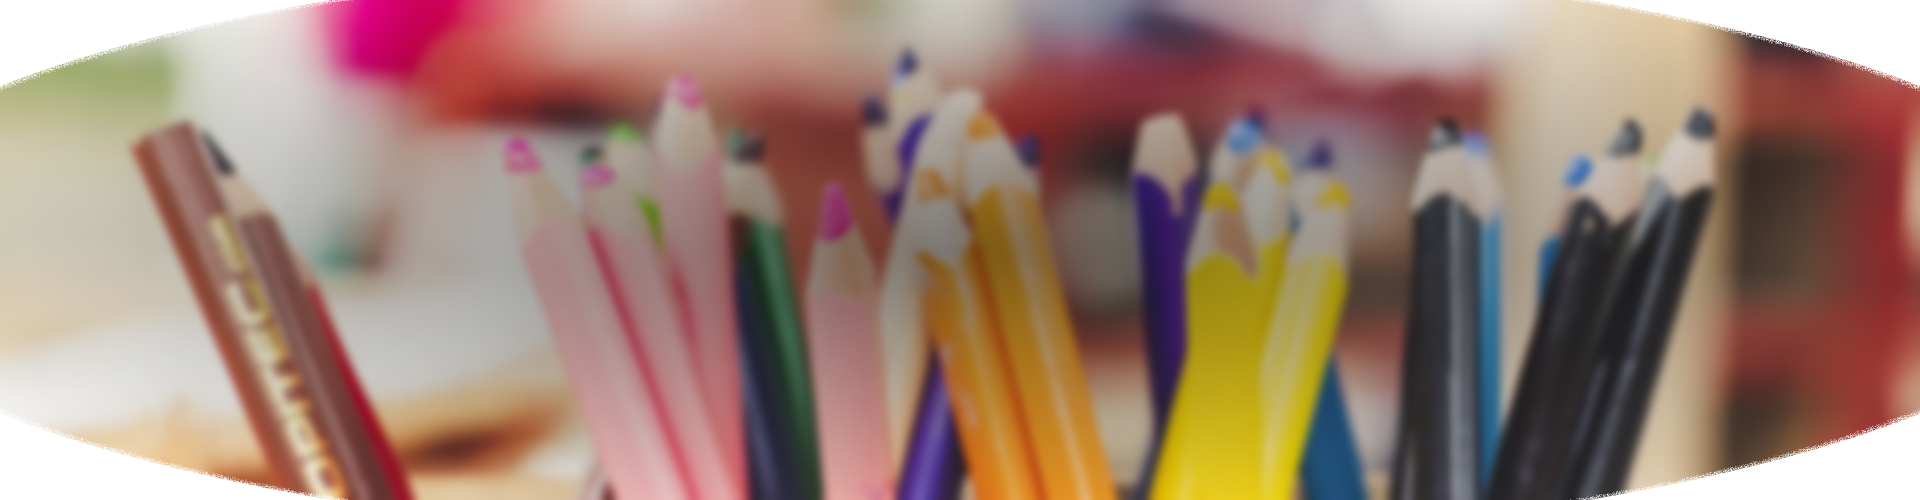
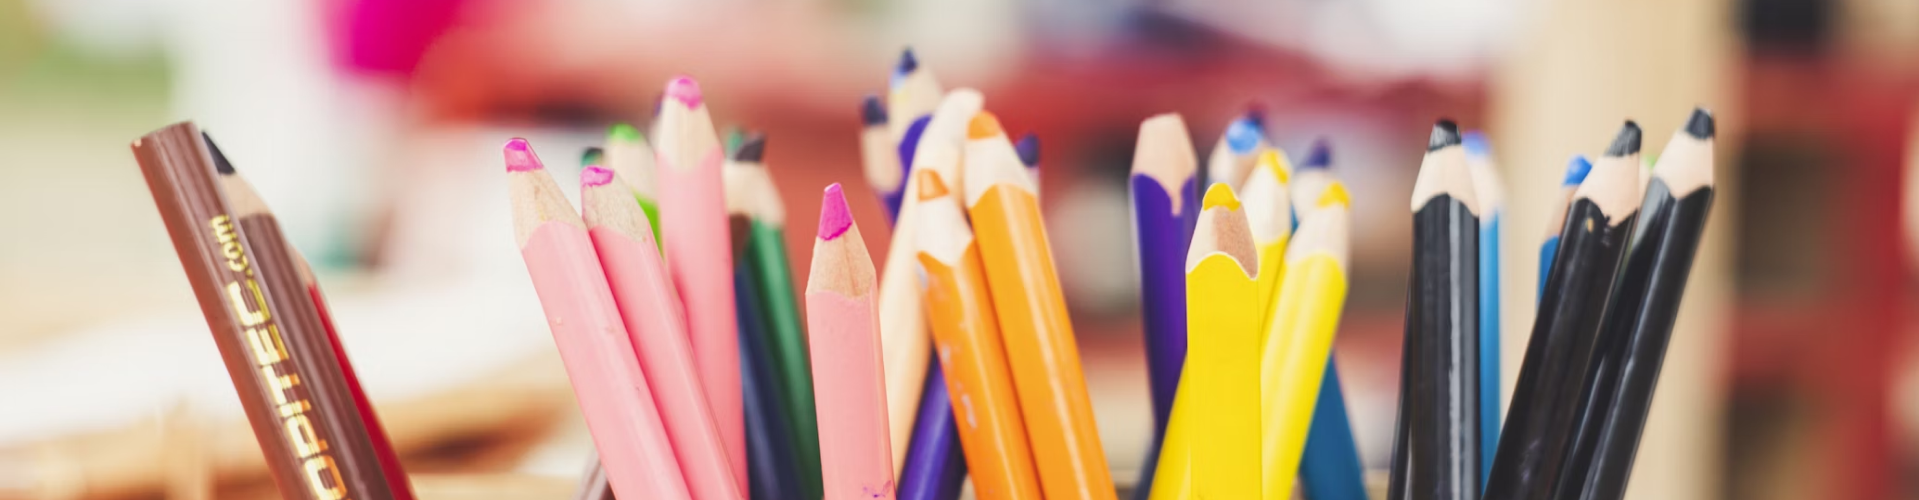
[fix]배경이미지 변경 및 디자인 수정, 애니메이션과 아이콘 디자인 수정

diff --git a/src/pages/Home/SchedulSection.tsx b/src/pages/Home/SchedulSection.tsx
@@ -6,6 +6,7 @@ import Button from '@components/Button';
 import Edu from '@assets/icon/edu.svg?react';
 import Dot from '@assets/img/dot.svg?react';
 import Date from '@assets/icon/date.svg?react';
+import Logo from '@assets/img/schedul-logo.svg?react';
 import { MOCKAG_SCHEDUL_DATA } from '@data/Schedul';
 
 interface ScheduleDateProps {
@@ -38,8 +39,8 @@ const ScheduleDate = ({
 }: ScheduleDateProps) => {
   return (
     <div
-      className="xl:w-[59.625rem] lg:w-[38.875rem] sm:w-[20.875rem] xl:h-[24rem] lg:h-[20.625rem] sm:h-[15rem] xl:pt-[2.7rem] lg:pt-[2.5rem] sm:pt-[1.5rem]
-      border rounded-[3rem] shadow-lg text-center bg-white"
+      className="xl:w-[59.625rem] lg:w-[38.875rem] sm:w-[20.875rem] xl:h-[24rem] lg:h-[20.625rem] sm:h-[15rem] xl:pt-[2.7rem] lg:pt-[2.5rem] sm:pt-[1.09rem]
+      border xl:rounded-[2rem] lg:rounded-[2rem] sm:rounded-[1.5rem] shadow-xl text-center bg-white"
     >
       <h2 className="xl:text-[2rem] lg:text-[1.625rem] sm:text-[1.125rem] font-bold xl:mb-[0.8rem] lg:mb-[1.5rem] sm:mb-[1rem]">
         {title}
@@ -56,12 +57,11 @@ const ScheduleDate = ({
       <Dot className="xl:ml-[30rem] lg:ml-[20rem] sm:ml-[10rem] xl:mb-[1rem] sm:mb-[1rem] sm:mt-[1rem]" />
       <div className="xl:text-[1.25rem] lg:text-[0.875rem] sm:text-[0.625rem]">
         <p className="xl:mb-[0.8rem] lg:mb-[0.7rem] sm:mb-[0.6rem]">
-          <Date className="absolute xl:w-[1.25rem] h-[1.27rem] lg:w-[1.00375rem] h-[1.02rem] sm:w-[0.908125rem] h-[0.895rem] xl:ml-[14.3rem] lg:ml-[8rem] sm:ml-[2rem] " />
+          <Date className="absolute xl:w-[1.25rem] lg:w-[1.00375rem] sm:w-[0.908125rem] xl:h-[1.27rem] lg:h-[1.02rem] sm:h-[0.895rem] xl:ml-[14.1rem] lg:ml-[8.25rem] sm:ml-[2rem] xl:mt-[0.1rem] lg:mt-[0.2rem] sm:mt-[0.1rem] " />
           신청일자: {formatDate(applyStartDate)} ~ {formatDate(applyEndDate)}
         </p>
         <p>
-          <Edu className="absolute xl:w-[1.5rem] h-[1.2775rem] lg:w-[1.1195rem] h-[1.02rem] sm:w-[0.989375rem] h-[0.875rem] xl:ml-[14.3rem] lg:ml-[8rem] sm:ml-[2rem]" />
-          {/*  xl:w-[1.4rem] h-[1.2775rem] lg:w-[1.1195rem] h-[1.02rem] sm:w-[0.989375rem] h-[0.875rem] */}
+          <Edu className="absolute xl:w-[1.5rem] lg:w-[1.1195rem] sm:w-[0.989375rem] xl:h-[1.2775rem] lg:h-[1.02rem] sm:h-[0.875rem] xl:ml-[14.1rem] lg:ml-[8.25rem] sm:ml-[2rem] xl:mt-[0.3rem] lg:mt-[0.2rem] sm:mt-[0.1rem]" />
           교육일자: {formatDate(eduStartDate)} ~{' '}
           {eduEndDate ? formatDate(eduEndDate) : formatDate(eduStartDate)}
         </p>
@@ -74,8 +74,8 @@ const ANIMATION_DURATION = 700;
 
 const ANIMATION_DIRECTION = {
   DEFAULT: '',
-  NEXT: `-translate-x-[calc(50%+64.625rem)] transition-transform duration-${ANIMATION_DURATION} ease-in-out`,
-  PREV: `-translate-x-[calc(50%-64.625rem)] transition-transform duration-${ANIMATION_DURATION} ease-in-out`,
+  NEXT: `xl:-translate-x-[calc(50%+62.9rem)] lg:-translate-x-[calc(50%+39.7rem)] sm:-translate-x-[calc(50%+21.402rem)] transition-transform duration-${ANIMATION_DURATION} ease-in-out`,
+  PREV: `xl:-translate-x-[calc(50%-62.9rem)] lg:-translate-x-[calc(50%+39.7rem)] sm:-translate-x-[calc(50%+21.402rem)] transition-transform duration-${ANIMATION_DURATION} ease-in-out`,
 };
 const SchedulSection = () => {
   const [startIdx, setStartIdx] = useState(0);
@@ -85,6 +85,7 @@ const SchedulSection = () => {
     ...MOCKAG_SCHEDUL_DATA.slice(3),
     ...MOCKAG_SCHEDUL_DATA.slice(0, 3),
   ]);
+
   const updateDataAfterAnimation = (newIdx: number, direction: string) => {
     setTrigger(direction);
     setTimeout(() => {
@@ -122,20 +123,27 @@ const SchedulSection = () => {
    "
     >
       <div className="relative">
-        <img src={schedule} alt="scheduleBG" className="w-[100%]" />
-        <p className="absolute w-[60rem] h-[10rem] top-1/2 left-1/2 -translate-x-1/2 -translate-y-[21rem] text-center xl:text-[2.875rem] lg:text-[2.125rem] sm:text-[1.125rem] text-white font-bold">
+        <img
+          src={schedule}
+          alt="scheduleBG"
+          className="w-[100%] blur-[0.15rem] brightness-75"
+        />
+        <Logo className="absolute xl:w-[7.69rem] lg:w-[4.92rem] sm:w-[2.40rem] xl:h-[5.56rem] lg:h-[3.56rem] sm:h-[1.74rem] right-1/2 translate-x-1/2 xl:-translate-y-[25rem] lg:-translate-y-[24rem] sm:-translate-y-[22rem] top-1/2" />
+        <p className="absolute w-[60rem] h-[10rem] top-1/2 left-1/2 -translate-x-1/2 xl:-translate-y-[19rem] lg:-translate-y-[19.8rem] sm:-translate-y-[19.5rem] text-center xl:text-[2.875rem] lg:text-[2.125rem] sm:text-[1.125rem] text-white font-bold">
           유어티처는 대한민국 모든
           <br />
           어린이집 유치원 선생님들을 응원합니다
         </p>
-        <div className="relative w-[100%] h-[34rem] left-0 xl:bottom-[7rem] lg:bottom-[5rem] sm:bottom-[4rem] overflow-hidden">
+        <div className="relative w-[100%] h-[34rem] left-0 xl:bottom-[4rem] lg:bottom-[5rem] sm:bottom-[3rem] overflow-hidden">
           <div
             className={`absolute top-0 left-1/2 -translate-x-1/2
-             flex xl:gap-[4.4rem] lg:gap-[1.3rem] sm:gap-[1.5rem]
+             flex xl:gap-[3.3rem] lg:gap-[0.8rem] sm:gap-[0.5rem]
              ${triggerSlide}`}
           >
             {renderingData.map((scheduleData) => (
-              <ScheduleDate key={scheduleData.id} {...scheduleData} />
+              <div key={scheduleData.id} className="slide">
+                <ScheduleDate {...scheduleData} />
+              </div>
             ))}
           </div>
 
@@ -150,15 +158,15 @@ const SchedulSection = () => {
             className="absolute xl:right-[calc(50%-27.5rem)] lg:right-[calc(50%-18.5rem)] sm:right-[calc(50%-10rem)] xl:top-[calc(50%-6.25rem)] lg:top-[calc(50%-8.5rem)] sm:top-[calc(50%-11rem)]"
           />
 
-          <div className="absolute right-1/2 transform translate-x-1/2 ">
+          <div className="absolute right-1/2 translate-x-1/2 ">
             <Button className="xl:translate-y-[29rem] lg:translate-y-[26rem] sm:translate-y-[20rem]">
               더보기
             </Button>
             <div className="flex justify-center xl:translate-y-[20.5rem] lg:translate-y-[18.5rem] sm:translate-y-[14rem]">
-              {MOCKAG_SCHEDUL_DATA.map((data) => (
+              {MOCKAG_SCHEDUL_DATA.map((data, index) => (
                 <div
                   key={data.id}
-                  className={`w-2 h-2 rounded-full mx-1 ${startIdx === data.id - 1 ? 'bg-green' : 'bg-gray-100'} ${startIdx === data.id - 1 ? 'xl:w-[0.8125rem] lg:w-[0.4375rem] sm:w-[0.4375rem] xl:h-[0.8125rem] lg:h-[0.4375rem] sm:h-[0.4375rem]' : 'xl:w-[0.5625rem] lg:w-[0.303125rem] sm:w-[0.303rem] xl:-[0.5625rem] lg:h-[0.303125rem] sm:h-[0.303rem]'}`}
+                  className={`rounded-full mx-1 ${startIdx === index ? 'bg-green' : 'bg-gray-200'} ${startIdx === index ? 'xl:w-[0.813rem] lg:w-[0.438rem] sm:w-[0.438rem] xl:h-[0.813rem] lg:h-[0.438rem] sm:h-[0.438rem]' : 'xl:w-[0.563rem] lg:w-[0.303rem] sm:w-[0.303rem] xl:h-[0.563rem] lg:h-[0.303rem] sm:h-[0.303rem]'}`}
                 />
               ))}
             </div>
